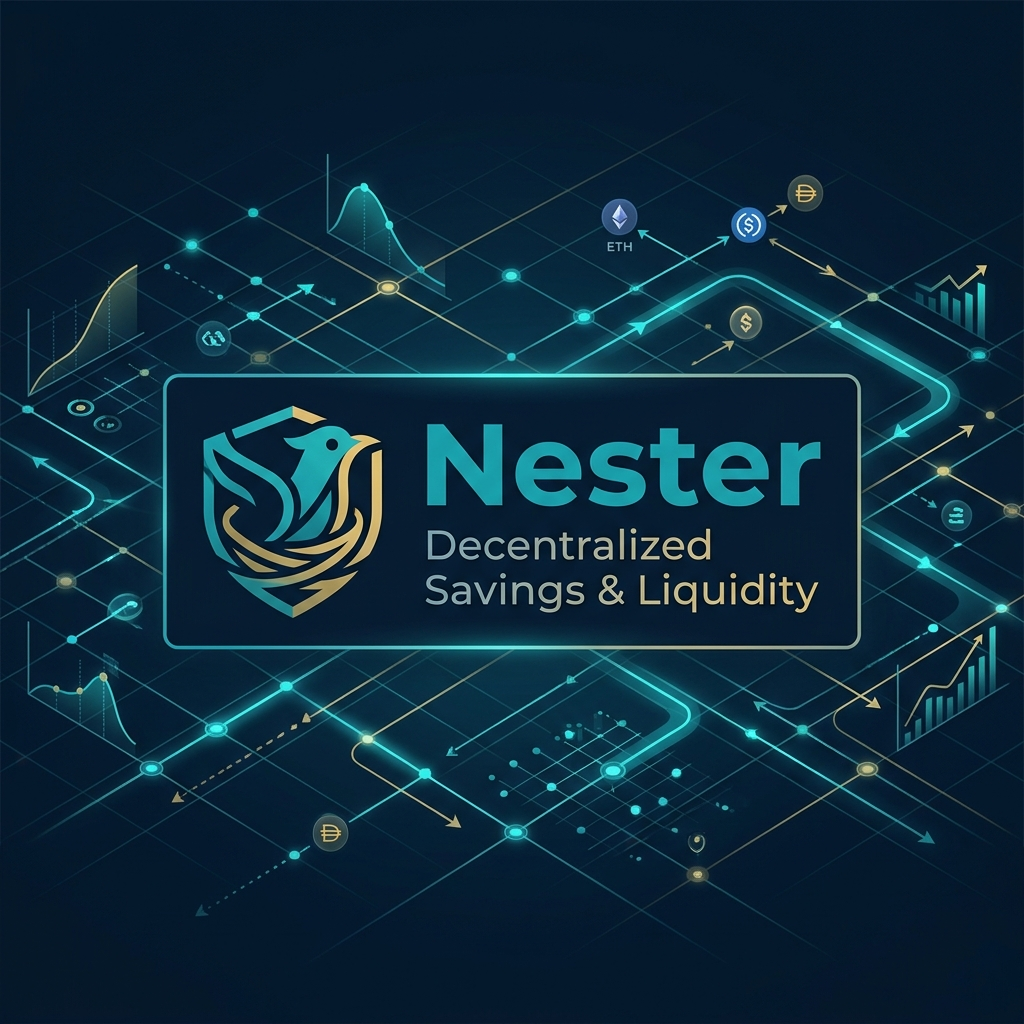
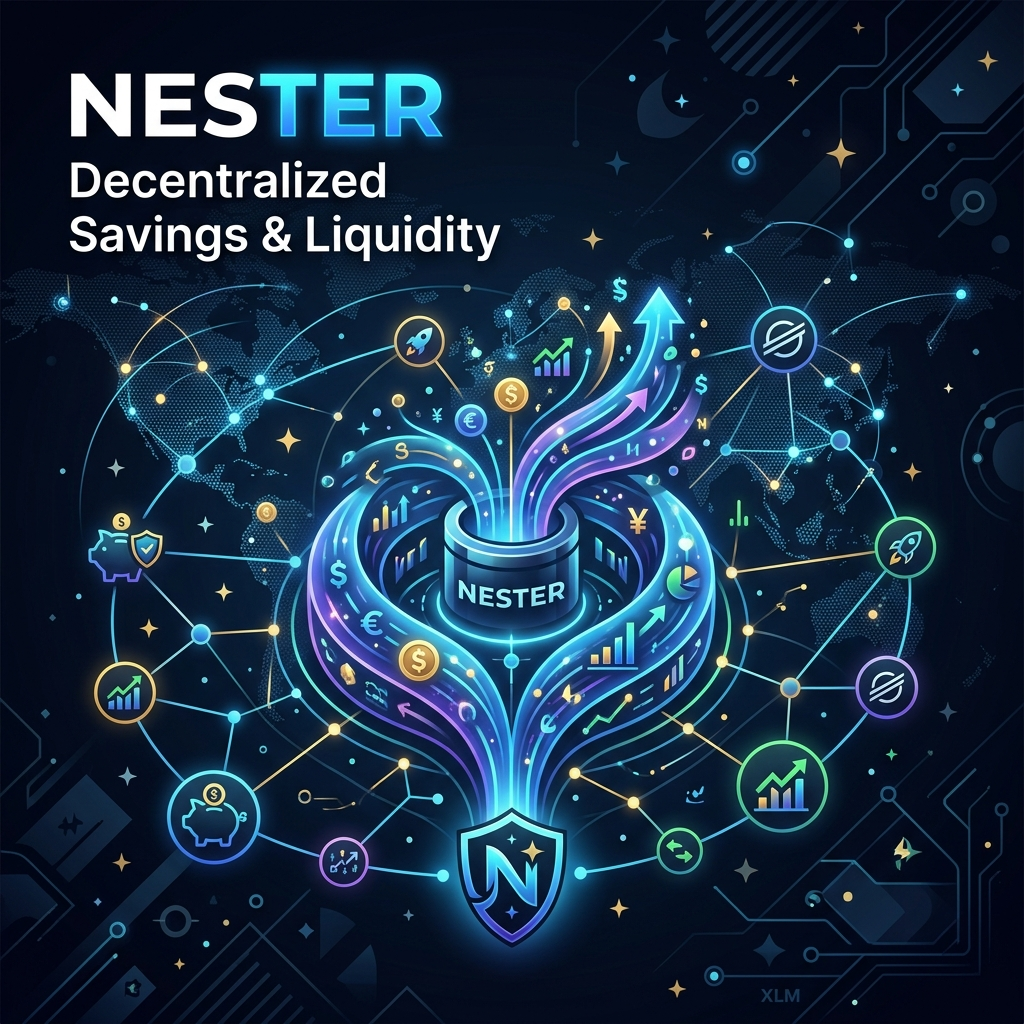
Add Cookie consent, migration prefix collision, seo & open graph metadata audit (#658)
* chore: update SEO metadata & OG tags

* feat: add migration prefix collision check to CI, fail build on duplicate-numbered migrations

* feat: add cookie consent banner to marketing website, GDPR-compliant analytics opt-in

* fix(ci): fix migration collision check false-positives from up/down pairs

Each migration has both .up.sql and .down.sql, so the numeric prefix
appeared twice per migration — causing uniq -d to flag every migration
as a collision. Strip the .up/.down.sql suffix and deduplicate base
names before extracting prefixes.

* fix(migrations): renumber 029_update_vault_transactions to 033

029 is now occupied by 029_create_device_tokens (merged via #659).
Move this migration to the next available slot to clear the collision
in the merged state.

* ci: retrigger CI against updated main (034/035 migration hotfix)

---------

Pull request: Add Cookie consent, migration prefix collision, seo & open graph metadata audit
## Summary
1. **Global OG and Twitter Cards** 
   - Audited the root [layout.tsx](apps/website/src/app/layout.tsx) and cleaned up hardcoded canonical URLs and Open Graph URLs so Next.js can dynamically resolve them per-page using `metadataBase`.
   - The global layout properly configures the base `openGraph` and `twitter:card` (summary_large_image) for all routes.

2. **Canonical URLs (`<link rel="canonical">`)**
   - **Homepage:** Added an explicit `metadata` export to the [homepage](apps/website/src/app/page.tsx) with `alternates: { canonical: "/" }`.
   - **Docs Pages:** Updated the `generateMetadata` function in the [docs route](apps/website/src/app/docs/%5B%5B...slug%5D%5D/page.tsx) to ensure every dynamically generated documentation page points to its correct canonical path (`/docs/[slug]`), and added a fallback for the `/docs` landing page.

3. **OG Image (1200x630)**
   - Generated a highly professional, 1200x630 Open Graph image featuring decentralized finance themes, dark mode aesthetics, and the Nester brand.
   - I replaced the existing image at [apps/website/public/og-image.png](apps/website/public/og-image.png) with this new graphic. 

4. **JSON-LD Structured Data**
   - Audited the homepage and verified it injects rich JSON-LD structured data for both a `WebApplication` (with `offers` and `FinanceApplication` categories) and an `FAQPage` schema. The global layout also continues to inject the core `Organization` schema.
[…]

diff --git a/apps/website/src/components/cookie-consent.tsx b/apps/website/src/components/cookie-consent.tsx
@@ -1,66 +1,182 @@
-"use client"
+"use client";
 
-import * as React from "react"
-import { motion, AnimatePresence } from "framer-motion"
-import { Button } from "@/components/ui/button"
+import * as React from "react";
+import { motion, AnimatePresence } from "framer-motion";
+import { Button } from "@/components/ui/button";
+
+interface CookieState {
+    necessary: boolean;
+    analytics: boolean;
+}
 
 export function CookieConsent() {
-    const [isVisible, setIsVisible] = React.useState(false)
+    const [isVisible, setIsVisible] = React.useState(false);
+    const [showPreferences, setShowPreferences] = React.useState(false);
+    
+    const [preferences, setPreferences] = React.useState<CookieState>({
+        necessary: true,
+        analytics: false,
+    });
 
     React.useEffect(() => {
-        // Check if user has already consented
-        const consented = localStorage.getItem("nester-cookie-consent")
-        if (!consented) {
-            // Show after a small delay
-            const timer = setTimeout(() => setIsVisible(true), 1000)
-            return () => clearTimeout(timer)
+        const getCookie = () => {
+            const cookies = document.cookie.split(";").map((c) => c.trim());
+            const consentCookie = cookies.find((c) => c.startsWith("nester-cookie-consent="));
+            if (consentCookie) {
+                try {
+                    const val = decodeURIComponent(consentCookie.split("=")[1]);
+                    return JSON.parse(val) as CookieState;
+                } catch (e) {
+                    return null;
+                }
+            }
+            return null;
+        };
+
+        const saved = getCookie();
+        if (!saved) {
+            const timer = setTimeout(() => setIsVisible(true), 1000);
+            return () => clearTimeout(timer);
+        } else {
+            setPreferences(saved);
         }
-    }, [])
+    }, []);
 
-    const handleAccept = () => {
-        localStorage.setItem("nester-cookie-consent", "true")
-        setIsVisible(false)
-    }
+    React.useEffect(() => {
+        const handleOpen = () => {
+            setIsVisible(true);
+            setShowPreferences(true);
+        };
+        window.addEventListener("open-cookie-consent", handleOpen);
+        return () => window.removeEventListener("open-cookie-consent", handleOpen);
+    }, []);
 
-    const handleDecline = () => {
-        localStorage.setItem("nester-cookie-consent", "false")
-        setIsVisible(false)
-    }
+    const saveAndClose = (newState: CookieState) => {
+        const value = encodeURIComponent(JSON.stringify(newState));
+        // 1-year expiry
+        document.cookie = `nester-cookie-consent=${value}; max-age=31536000; path=/`;
+        setPreferences(newState);
+        setIsVisible(false);
+        setShowPreferences(false);
+        window.dispatchEvent(new Event("cookie-consent-updated"));
+    };
+
+    const handleAcceptAll = () => saveAndClose({ necessary: true, analytics: true });
+    const handleDenyAll = () => saveAndClose({ necessary: true, analytics: false });
+    const handleSavePreferences = () => saveAndClose(preferences);
 
     return (
         <AnimatePresence>
             {isVisible && (
-                <motion.div
-                    initial={{ opacity: 0, y: 20, scale: 0.95 }}
-                    animate={{ opacity: 1, y: 0, scale: 1 }}
-                    exit={{ opacity: 0, y: 20, scale: 0.95 }}
-                    transition={{ duration: 0.3 }}
-                    className="fixed bottom-4 left-4 right-4 sm:left-auto sm:right-6 sm:bottom-6 z-[100] w-auto sm:w-full sm:max-w-[420px] p-5 sm:p-6 bg-white rounded-[20px] sm:rounded-[24px] shadow-2xl border border-border/10"
-                >
-                    <div className="flex flex-col gap-6">
-                        <p className="text-[15px] text-[#111827] leading-relaxed font-sans">
-                            We use cookies to enhance your user experience, provide personalised content and analyse traffic.{" "}
-                            <a href="#" className="underline decoration-1 underline-offset-2 hover:text-nester-blue transition-colors">Cookie Policy</a>
-                        </p>
+                <div role="dialog" aria-modal="true" aria-labelledby="cookie-banner-title">
+                    {/* Backdrop for preferences view only */}
+                    {showPreferences && (
+                        <motion.div
+                            initial={{ opacity: 0 }}
+                            animate={{ opacity: 1 }}
+                            exit={{ opacity: 0 }}
+                            className="fixed inset-0 z-[90] bg-black/40 backdrop-blur-sm"
+                            onClick={() => setShowPreferences(false)}
+                        />
+                    )}
 
-                        <div className="flex items-center gap-3">
-                            <Button
-                                onClick={handleAccept}
-                                className="bg-[#111827] hover:bg-black text-white rounded-full px-6 h-11 font-medium text-sm transition-transform active:scale-95 shadow-none"
-                            >
-                                Accept All
-                            </Button>
-                            <Button
-                                onClick={handleDecline}
-                                variant="outline"
-                                className="bg-white border-[#E5E7EB] hover:bg-gray-50 text-[#111827] rounded-full px-6 h-11 font-medium text-sm transition-transform active:scale-95"
-                            >
-                                Deny All
-                            </Button>
-                        </div>
-                    </div>
-                </motion.div>
+                    <motion.div
+                        initial={{ opacity: 0, y: 20, scale: 0.95 }}
+                        animate={{ opacity: 1, y: 0, scale: 1 }}
+                        exit={{ opacity: 0, y: 20, scale: 0.95 }}
+                        transition={{ duration: 0.3 }}
+                        className={`fixed bottom-4 left-4 right-4 z-[100] bg-white rounded-[20px] shadow-2xl border border-border/10 overflow-hidden ${
+                            showPreferences 
+                                ? "top-1/2 left-1/2 -translate-x-1/2 -translate-y-1/2 bottom-auto right-auto w-[90%] max-w-md max-h-[90vh] overflow-y-auto m-0 rounded-2xl" 
+                                : "sm:left-auto sm:right-6 sm:bottom-6 sm:w-full sm:max-w-[420px]"
+                        }`}
+                    >
+                        {!showPreferences ? (
+                            <div className="p-5 sm:p-6 flex flex-col gap-6">
+                                <p id="cookie-banner-title" className="text-[15px] text-[#111827] leading-relaxed font-sans">
+                                    We use cookies to enhance your user experience, provide personalised content and analyse traffic.{" "}
+                                    <a href="#" className="underline decoration-1 underline-offset-2 hover:text-nester-blue transition-colors">Cookie Policy</a>
+                                </p>
+
+                                <div className="flex flex-col sm:flex-row items-center gap-3">
+                                    <div className="flex gap-2 w-full sm:w-auto">
+                                        <Button
+                                            onClick={handleAcceptAll}
+                                            className="flex-1 sm:flex-none bg-[#111827] hover:bg-black text-white rounded-full px-6 h-11 font-medium text-sm transition-transform active:scale-95 shadow-none"
+                                        >
+                                            Accept All
+                                        </Button>
+                                        <Button
+                                            onClick={handleDenyAll}
+                                            variant="outline"
+                                            className="flex-1 sm:flex-none bg-white border-[#E5E7EB] hover:bg-gray-50 text-[#111827] rounded-full px-6 h-11 font-medium text-sm transition-transform active:scale-95"
+                                        >
+                                            Deny All
+                                        </Button>
+                                    </div>
+                                    <button
+                                        onClick={() => setShowPreferences(true)}
+                                        className="text-sm font-medium text-muted-foreground hover:text-foreground underline decoration-1 underline-offset-2 transition-colors mt-2 sm:mt-0 ml-auto"
+                                    >
+                                        Manage
+                                    </button>
+                                </div>
+                            </div>
+                        ) : (
+                            <div className="flex flex-col h-full">
+                                <div className="p-6 border-b border-border/10">
+                                    <h2 id="cookie-banner-title" className="text-xl font-bold font-heading text-foreground mb-2">Cookie Preferences</h2>
+                                    <p className="text-sm text-muted-foreground leading-relaxed">
+                                        Manage your cookie preferences. Necessary cookies cannot be disabled as they are required for the website to function properly.
+                                    </p>
+                                </div>
+                                <div className="p-6 space-y-6">
+                                    <div className="flex items-start justify-between gap-4">
+                                        <div>
+                                            <h3 className="font-semibold text-foreground">Necessary Cookies</h3>
+                                            <p className="text-sm text-muted-foreground mt-1">Required for core functionality like security and network management.</p>
+                                        </div>
+                                        <div className="relative inline-flex items-center cursor-not-allowed">
+                                            <div className="w-11 h-6 bg-emerald-500 rounded-full opacity-60"></div>
+                                            <div className="absolute left-[22px] top-1 w-4 h-4 bg-white rounded-full shadow-sm"></div>
+                                        </div>
+                                    </div>
+                                    <div className="flex items-start justify-between gap-4">
+                                        <div>
+                                            <h3 className="font-semibold text-foreground">Analytics Cookies</h3>
+                                            <p className="text-sm text-muted-foreground mt-1">Help us improve the website by understanding how you interact with it.</p>
+                                        </div>
+                                        <button 
+                                            type="button"
+                                            role="switch"
+                                            aria-checked={preferences.analytics}
+                                            onClick={() => setPreferences(p => ({ ...p, analytics: !p.analytics }))}
+                                            className={`relative inline-flex h-6 w-11 items-center rounded-full transition-colors focus-visible:outline-none focus-visible:ring-2 focus-visible:ring-ring focus-visible:ring-offset-2 ${preferences.analytics ? 'bg-emerald-500' : 'bg-input'}`}
+                                        >
+                                            <span className={`inline-block h-4 w-4 transform rounded-full bg-background shadow-sm transition-transform ${preferences.analytics ? 'translate-x-[22px]' : 'translate-x-1'}`} />
+                                        </button>
+                                    </div>
+                                </div>
+                                <div className="p-6 bg-muted/30 border-t border-border/10 flex flex-col sm:flex-row gap-3">
+                                    <Button 
+                                        onClick={handleSavePreferences}
+                                        className="w-full sm:flex-1 bg-[#111827] hover:bg-black text-white rounded-full h-11 font-medium"
+                                    >
+                                        Save Preferences
+                                    </Button>
+                                    <Button 
+                                        onClick={handleAcceptAll}
+                                        variant="outline"
+                                        className="w-full sm:flex-1 rounded-full h-11 font-medium"
+                                    >
+                                        Accept All
+                                    </Button>
+                                </div>
+                            </div>
+                        )}
+                    </motion.div>
+                </div>
             )}
         </AnimatePresence>
-    )
+    );
 }

diff --git a/apps/website/src/components/analytics.tsx b/apps/website/src/components/analytics.tsx
@@ -1,0 +1,47 @@
+"use client";
+
+import { useEffect, useState } from "react";
+import Script from "next/script";
+
+export function Analytics() {
+    const [hasAnalyticsConsent, setHasAnalyticsConsent] = useState(false);
+
+    useEffect(() => {
+        const checkConsent = () => {
+            const cookies = document.cookie.split(";").map((c) => c.trim());
+            const consentCookie = cookies.find((c) => c.startsWith("nester-cookie-consent="));
+            if (consentCookie) {
+                try {
+                    const val = decodeURIComponent(consentCookie.split("=")[1]);
+                    const parsed = JSON.parse(val);
+                    if (parsed.analytics) {
+                        setHasAnalyticsConsent(true);
+                    } else {
+                        setHasAnalyticsConsent(false);
+                    }
+                } catch (e) {
+                    // Invalid cookie, ignore
+                }
+            } else {
+                setHasAnalyticsConsent(false);
+            }
+        };
+
+        // Check on mount
+        checkConsent();
+
+        // Listen for updates from the cookie consent banner
+        window.addEventListener("cookie-consent-updated", checkConsent);
+        return () => window.removeEventListener("cookie-consent-updated", checkConsent);
+    }, []);
+
+    if (!hasAnalyticsConsent) return null;
+
+    return (
+        <Script
+            strategy="afterInteractive"
+            data-domain="nester.finance"
+            src="https://plausible.io/js/script.js"
+        />
+    );
+}

diff --git a/apps/website/src/app/layout.tsx b/apps/website/src/app/layout.tsx
@@ -1,6 +1,7 @@
 import type { Metadata } from "next";
 import { Space_Grotesk, Inter, Cormorant } from "next/font/google";
 import { CookieConsent } from "@/components/cookie-consent";
+import { Analytics } from "@/components/analytics";
 import { SmoothScroll } from "@/components/smooth-scroll";
 import "./globals.css";
 
@@ -20,9 +21,6 @@ export const metadata: Metadata = {
   authors: [{ name: "Nester Protocol" }],
   creator: "Nester Protocol",
   publisher: "Nester Protocol",
-  alternates: {
-    canonical: "/",
-  },
   icons: {
     icon: "/logo.png",
     apple: "/logo.png",
@@ -30,7 +28,6 @@ export const metadata: Metadata = {
   openGraph: {
     type: "website",
     locale: "en_US",
-    url: "https://nester.finance",
     siteName: "Nester",
     title: "Nester | Decentralized Savings & Liquidity",
     description: "Optimize crypto yield and settle to fiat instantly through a decentralized liquidity network built for emerging markets.",
@@ -74,11 +71,6 @@ export default function RootLayout({
     <html lang="en" className="scroll-smooth">
       <head>
         <script
-          defer
-          data-domain="nester.finance"
-          src="https://plausible.io/js/script.js"
-        />
-        <script
           type="application/ld+json"
           dangerouslySetInnerHTML={{ __html: JSON.stringify(jsonLd) }}
         />
@@ -90,6 +82,7 @@ export default function RootLayout({
         <SmoothScroll>
           {children}
           <CookieConsent />
+          <Analytics />
         </SmoothScroll>
       </body>
     </html>

diff --git a/apps/website/src/app/page.tsx b/apps/website/src/app/page.tsx
@@ -1,3 +1,4 @@
+import { Metadata } from "next";
 import { Navbar } from "@/components/navbar";
 import { Hero } from "@/components/hero";
 import { ImageCarousel } from "@/components/image-carousel";
@@ -9,6 +10,12 @@ import { Faq } from "@/components/faq";
 import { Footer } from "@/components/footer";
 // import { FeaturesFloat } from "@/components/features-float";
 // import { Architecture } from "@/components/architecture";
+
+export const metadata: Metadata = {
+  alternates: {
+    canonical: "/",
+  },
+};
 
 const jsonLd = {
   "@context": "https://schema.org",

diff --git a/apps/website/src/components/footer.tsx b/apps/website/src/components/footer.tsx
@@ -283,6 +283,13 @@ export function Footer() {
         </div>
 
         <div className="flex items-center gap-4">
+          <button
+            onClick={() => window.dispatchEvent(new Event("open-cookie-consent"))}
+            className="text-[11px] font-mono text-black/20 hover:text-black/50 transition-colors duration-200"
+          >
+            Preferences
+          </button>
+          <span className="w-px h-3 bg-black/[0.12]" />
           <Link
             href="#"
             className="text-[11px] font-mono text-black/20 hover:text-black/50 transition-colors duration-200"

diff --git a/apps/website/src/app/docs/[[...slug]]/page.tsx b/apps/website/src/app/docs/[[...slug]]/page.tsx
@@ -18,6 +18,9 @@ export async function generateMetadata({ params }: Props): Promise<Metadata> {
         return {
             title: "Documentation",
             description: "Technical documentation for the Nester protocol.",
+            alternates: {
+                canonical: "/docs",
+            },
         };
     }
 